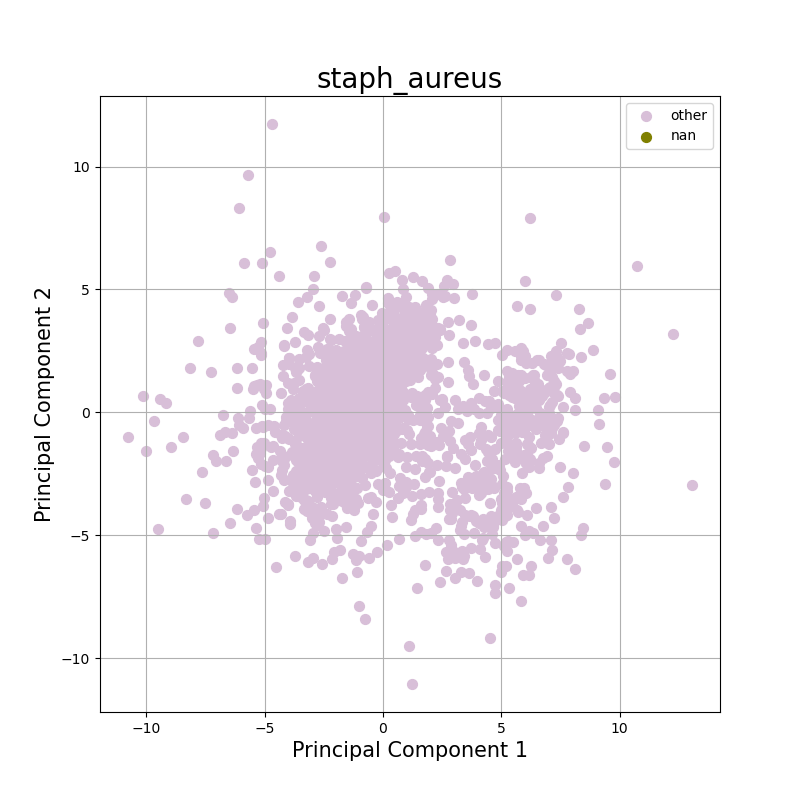
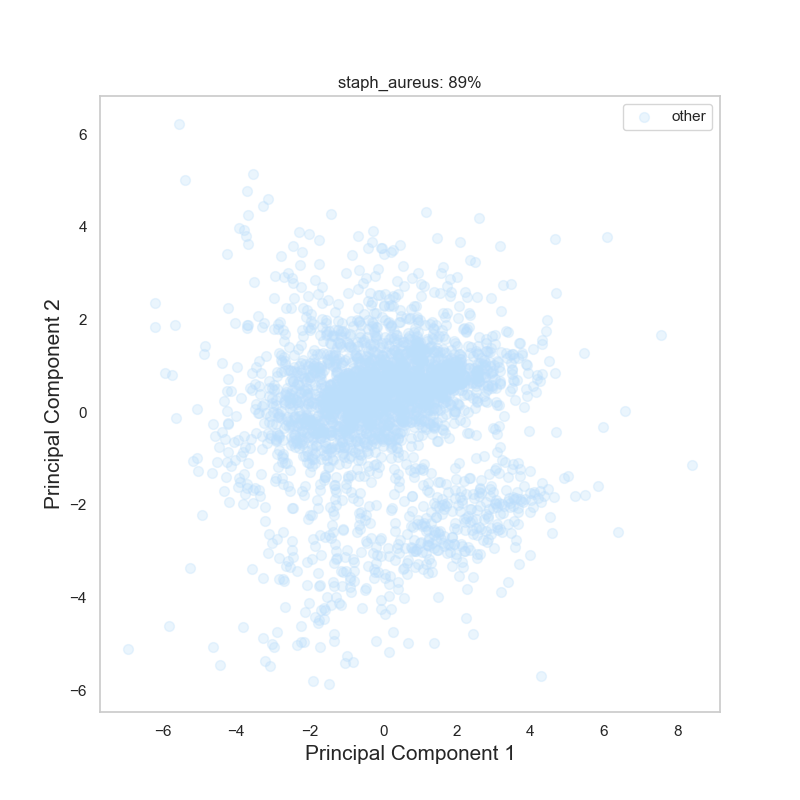
fix PCA figures

diff --git a/ComputationalBiology/data_analysis/main_visualization.py b/ComputationalBiology/data_analysis/main_visualization.py
@@ -93,6 +93,7 @@ def plot_pca(df_labeled, target_column, sp_name, features_of_interest=[]):
 
     # Separating out the features
     df_labeled = df_labeled.dropna(0)  # NOTE: in BS3610 we had 58 genes of NAN in some of the features
+
     x = df_labeled.loc[:, features].values
 
     # Separating out the target
@@ -105,8 +106,11 @@ def plot_pca(df_labeled, target_column, sp_name, features_of_interest=[]):
     principalComponents = pca.fit_transform(x, )
     principalDf = pd.DataFrame(data=principalComponents, columns=['principal component 1', 'principal component 2'])
 
+    print(len(principalDf))
+    print(len(df_labeled))
     finalDf = pd.concat([principalDf, df_labeled[[target_column]]], axis=1)
-
+    print(len(finalDf))
+    finalDf = finalDf.dropna(0)
 
     fig = plt.figure(figsize=(8, 8))
     ax = fig.add_subplot(1, 1, 1)
@@ -122,12 +126,21 @@ def plot_pca(df_labeled, target_column, sp_name, features_of_interest=[]):
     targets = [x[0] for x in label_counter_sorted]
     print(Counter(finalDf[target_column].values))
 
-    colors = ['thistle', 'olive', 'skyblue', 'firebrick', 'gold', 'darkred']
-    for target, color, in zip(targets, colors):
+    # colors = ['thistle', 'olive', 'skyblue', 'firebrick', 'gold', 'darkred', 'red']
+    #colors = ['lightsteelblue', 'limegreen', 'mediumpurple', 'lightcoral', 'orchid', 'tomato', 'brown']
+    # colors=['#85C1E9', '#BB8FCE', '#F1948A', '#F0B27A', '#F7DC6F', '#A9DFBF', '#AEB6BF']
+    # colors = ['#e6b0aa','#d98880', '#f0b27a', '#f7dc6f', '#7dcea0', '#85C1E9', '#c39bd3']
+    # colors = ['#ffe082', '#ffab91', '#f48fb1', '#b39ddb', '#90caf9', '#81c784','#78909C']
+    # colors=['#bbdefb','#dcedc8', '#fff9c4', '#ffe0b2', '#f8bbd0', '#d1c4e9',  '#AB47BC']
+    colors = ['#bbdefb', '#3f51b5', '#9c27b0', '#f44336', '#ff9800', '#ffeb3b', '#8bc34a']
+
+    # assert(len(targets) == len(colors))
+    for i, (target, color) in enumerate(zip(targets, colors)):
+        alpha = 0.3 if i == 0 else 0.8
         indicesToKeep = finalDf[target_column] == target
         ax.scatter(finalDf.loc[indicesToKeep, 'principal component 1'],
                    finalDf.loc[indicesToKeep, 'principal component 2'],
-                   s=50, c=color, alpha=0.3)
+                   s=50, c=color, alpha=alpha)
     ax.legend(targets)
     ax.grid()
 
@@ -136,6 +149,29 @@ def plot_pca(df_labeled, target_column, sp_name, features_of_interest=[]):
     plt.title('{}: {:.0f}%'.format(sp_name, 100*sum(pca.explained_variance_ratio_)))
     fig.savefig(out_file)
 
+
+    # another trial with seaborn
+    import seaborn as sns
+    sns.set(style='whitegrid')
+
+
+    # Set your custom color palette
+    # sns.set_palette(sns.color_palette('pastel'))
+    # # sns.set_palette(sns.color_palette(colors))
+    #
+    # sns.lmplot(x="principal component 1", y="principal component 2",
+    #            data=finalDf,
+    #            fit_reg=False,
+    #            hue='is_gene_of_interest',  # color by cluster
+    #            legend=True,
+    #            scatter_kws={"s": 50, 'alpha': 0.5})  # specify the point size
+    # plt.show()
+
+    # g = sns.scatterplot(x="principal component 1", y="principal component 2", hue="is_gene_of_interest",
+    #                     data=finalDf, palette='colorblind',
+    #                     legend='full')
+    # # g.set(xscale="log")
+    # plt.show()
 
 # plot for each pair of species subplot of all features
 def plot_histograms_pairwise_species():
@@ -342,8 +378,8 @@ if __name__ == '__main__':
 
         #plot_all_features_heatmap(df_species, species_name)
 
-        #plot_pca_one_species(df_species=df_species, species_name=species_names[i], add_function_labels=True,
-        #                     features_of_interest=[])
+        plot_pca_one_species(df_species=df_species, species_name=species_names[i], add_function_labels=True,
+                            features_of_interest=[])
 
         # concatenate the dataframes to create a "mega-species"
         # Stack the DataFrames on top of each other

diff --git a/ComputationalBiology/bio_general/bio_macros.py b/ComputationalBiology/bio_general/bio_macros.py
@@ -65,14 +65,14 @@ chem_df = pd.DataFrame.from_dict(chemical_properties, columns=chemicals_features
 # names of species for feature comparison:
 
 species_names = [ \
-   # 'actinomyces_israelii',
-   #  'bacillus_clausii',
-    # 'bacillus_subtilis'
+   'actinomyces_israelii',
+    'bacillus_clausii',
+    'bacillus_subtilis',
      'escherichia_coli',
     'staph_aureus',
-    #'strep_mitis',
-    #'strep_mutans',
-    #'strep_salivarius',
-    #'helicobacter_pylori',
-    #'strep_sanguinis'
+    'strep_mitis',
+    'strep_mutans',
+    'strep_salivarius',
+    'helicobacter_pylori',
+    'strep_sanguinis'
 ]
